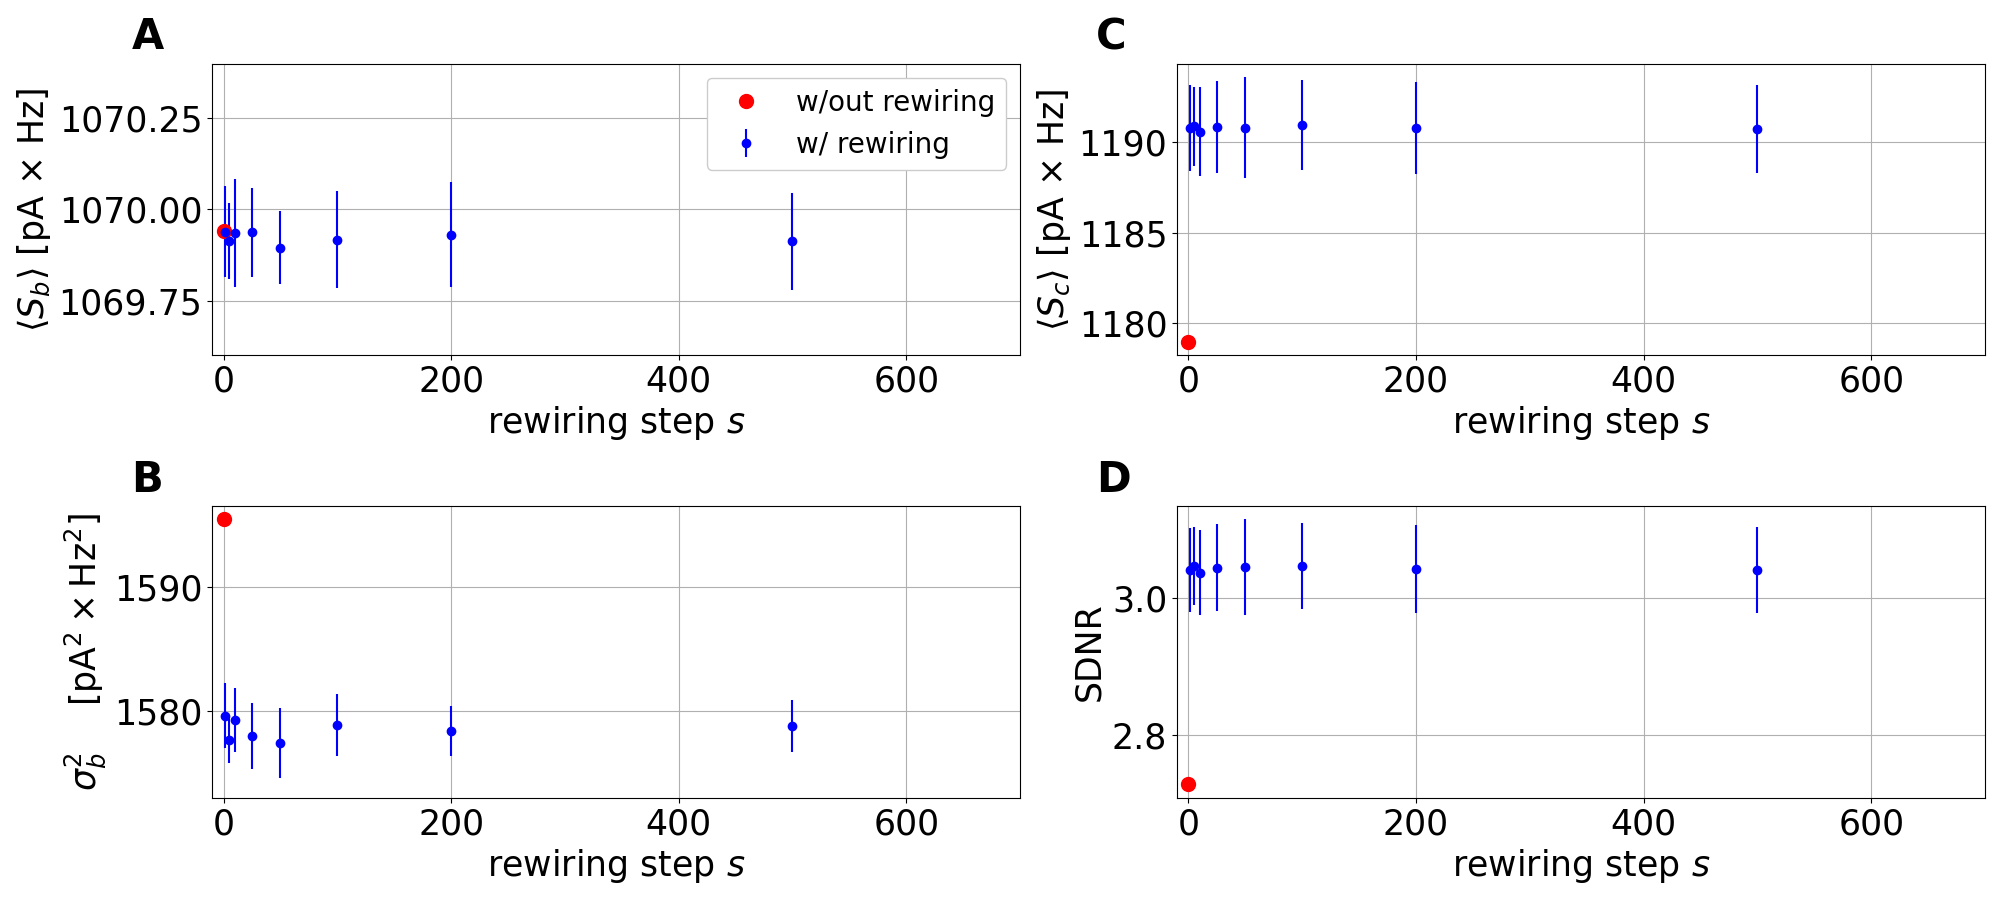
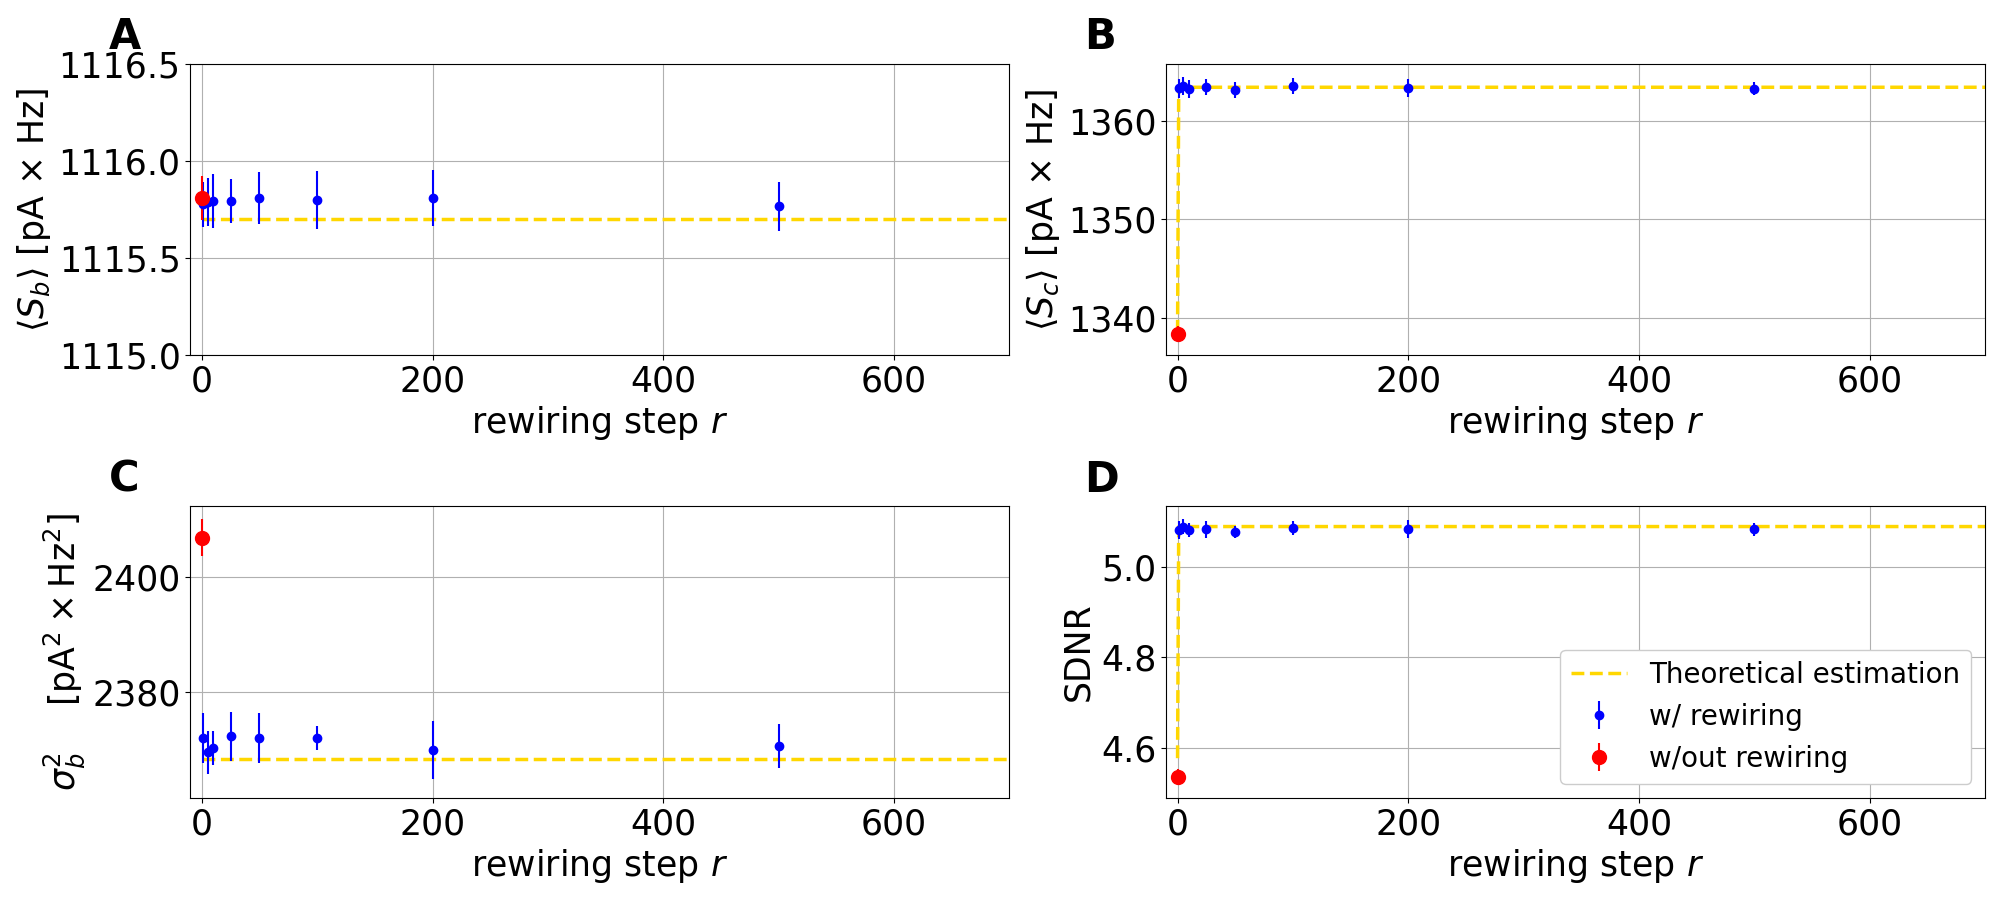
edited rewiring data

diff --git a/plot/plot_variable_rewiring.py b/plot/plot_variable_rewiring.py
@@ -23,7 +23,7 @@ def get_params_dict(path):
         Python dictionary containing simulation parameters
     """
 
-    params = np.loadtxt(path+'/params.dat', dtype=np.str)
+    params = np.loadtxt(path+'/params.dat', dtype=str)
     dict_params = dict([[params[i][0], float(params[i][1])] for i in range(len(params))])
     
     return(dict_params)
@@ -102,8 +102,12 @@ def get_th_set(path, T):
         # w/out rewiring
         S2 = params['rh1']*params['Wc']*params['p1']*params['C'] + params['rl1']*(1.0-params['p1'])*(params['W0']*params['C'] + (params['Wc'] - params['W0'])*k)
     else:
+        r = params['change_conn_step']
+        b = (1.-(1.-params['p1']*params['p2'])**(T+r))/(1.-(1.-params['p1']*params['p2'])**r)
+        av_pt = 1. - (b*r)/(T+r)
+        av_kt_first = av_pt*params['C']*(1.0-params['p1'])
         # w/ rewiring
-        S2 = params['rh1']*params['Wc']*params['p1']*params['C'] + rm1*(1.0-params['p1'])*(params['W0']*params['C'] + (params['Wc'] - params['W0'])*k)
+        S2 = params['rh1']*params['Wc']*params['p1']*params['C'] + rm1*(1.0-params['p1'])*(params['W0']*params['C'] + (params['Wc'] - params['W0'])*k) - params['Wc']*(rm1 - params['rl1'])*av_kt_first
 
     # if C is constant
     if(params['connection_rule']==0):
@@ -161,14 +165,14 @@ def get_th_data(path):
         t = [int(step) for step in t_list]
         t.sort()
 
-        T = [ 5000 for i in range(len(t))]
+        T = [ 10000 for i in range(len(t))]
 
         dum_Sb = []
         dum_varSb = []
         dum_S2 = []
 
         for i in range(len(t)):
-            dum_dict = get_th_set(path+"/0", T[i])
+            dum_dict = get_th_set(path+"/"+str(t[i]), T[i])
             dum_Sb.append(dum_dict['Sb'])
             dum_varSb.append(dum_dict['varSb'])
             dum_S2.append(dum_dict['S2'])
@@ -283,41 +287,43 @@ def plot_data(data, th_data):
 
     #ax1.fill_between(data['t'][1:], data['Sb_av'][1:]-data['Sb_std'][1:], data['Sb_av'][1:]+data['Sb_std'][1:], color="blue", alpha=0.2)
     ax1.text(-0.1, 1.05, "A", weight="bold", fontsize=30, color='k', transform=ax1.transAxes)
-    ax1.errorbar(data['t'][1:], data['Sb_av'][1:], fmt="o", linestyle="", yerr=data['Sb_std'][1:], color="blue", label="w/ rewiring")
-    ax1.plot(data['t'][0], data['Sb_av'][0], "o", markersize=10, color="red", label="w/out rewiring")
-    ax1.legend(fontsize=legend_fs, framealpha=1.0)
+    ax1.plot(th_data['t'], th_data['Sb_th'], "--", linewidth=2.5, color="gold", label='Theoretical estimation')
+    ax1.errorbar(data['t'][1:], data['Sb_av'][1:], yerr=data['Sb_std'][1:], fmt="o", linestyle="", color="blue", label="w/ rewiring")
+    ax1.errorbar(data['t'][0], data['Sb_av'][0], yerr=data['Sb_std'][0], fmt="o", markersize=10, color="red", label="w/out rewiring")
     ax1.set_ylabel(r"$\langle S_b \rangle$ [pA $\times$ Hz]", fontsize=tick_fs)
-    ax1.set_xlabel(r"rewiring step $s$", fontsize=tick_fs)
+    ax1.set_xlabel(r"rewiring step $r$", fontsize=tick_fs)
     ax1.tick_params(labelsize=tick_fs)
-    ax1.set_ylim(1069.4, 1070.5)
+    ax1.set_ylim(1115, 1116.5)
     ax1.set_xlim(-10, 700)
     ax1.ticklabel_format(style='plain', useOffset=False, axis='y') 
     #ax1.set_xticklabels([])
     ax1.grid()
-    ax1.set_ylim(1069.6,1070.4)
+    #ax1.set_ylim(1069.6,1070.4)
     
     #ax3.fill_between(data['t'][1:], data['varSb_av'][1:]-data['varSb_std'][1:], data['varSb_av'][1:]+data['varSb_std'][1:], color="blue", alpha=0.2)
-    ax3.text(-0.1, 1.05, "B", weight="bold", fontsize=30, color='k', transform=ax3.transAxes)
+    ax3.text(-0.1, 1.05, "C", weight="bold", fontsize=30, color='k', transform=ax3.transAxes)
+    ax3.plot(th_data['t'], th_data['varSb_th'], "--", linewidth=2.5, color="gold", label='Theoretical estimation')
     ax3.errorbar(data['t'][1:], data['varSb_av'][1:], fmt="o", linestyle="", yerr=data['varSb_std'][1:], color="blue", label="w/ rewiring")
-    ax3.plot(data['t'][0], data['varSb_av'][0], "o", markersize=10, color="red", label="w/out rewiring")
+    ax3.errorbar(data['t'][0], data['varSb_av'][0], yerr=data['varSb_std'][0], fmt="o", markersize=10, color="red", label="w/out rewiring")
     #ax3.plot(data['t'], th_data['varSb_th'], "--", color="red", label="Theory")
     #ax3.legend(title=r"$\sigma^2_b$", fontsize=legend_fs, title_fontsize=legend_fs, framealpha=1.0)
     ax3.set_ylabel(r"$\sigma^2_b$ $\quad [\mathrm{pA}^2 \times \mathrm{Hz}^2]$", fontsize=tick_fs)
-    ax3.set_xlabel(r"rewiring step $s$", fontsize=tick_fs)
+    ax3.set_xlabel(r"rewiring step $r$", fontsize=tick_fs)
     ax3.set_xlim(-10, 700)
     ax3.tick_params(labelsize=tick_fs)
     ax3.grid()
     #ax3.set_xticklabels([])
     #ax3.legend(fontsize=legend_fs, framealpha=1.0)
 
-    ax5.text(-0.1, 1.05, "C", weight="bold", fontsize=30, color='k', transform=ax5.transAxes)
+    ax5.text(-0.1, 1.05, "B", weight="bold", fontsize=30, color='k', transform=ax5.transAxes)
     #ax5.fill_between(data['t'][1:], data['S2_av'][1:]-data['S2_std'][1:], data['S2_av'][1:]+data['S2_std'][1:], color="blue", alpha=0.2)
+    ax5.plot(th_data['t'], th_data['S2_th'], "--", linewidth=2.5, color="gold", label='Theoretical estimation')
     ax5.errorbar(data['t'][1:], data['S2_av'][1:], fmt="o", linestyle="", yerr=data['S2_std'][1:], color="blue", label="w/ rewiring")
-    ax5.plot(data['t'][0], data['S2_av'][0], "o", markersize=10, color="red", label="w/out rewiring")
+    ax5.errorbar(data['t'][0], data['S2_av'][0], yerr=data['S2_std'][0], fmt="o", markersize=10, color="red", label="w/out rewiring")
     #ax5.plot(data['t'], th_data['S2_th'], "--", color="red", label="Theory")
     #ax5.legend(title=r"$\langle S_c \rangle$", fontsize=legend_fs, title_fontsize=legend_fs, framealpha=1.0)
     ax5.set_ylabel(r"$\langle S_c \rangle$ [pA $\times$ Hz]", fontsize=tick_fs)
-    ax5.set_xlabel(r"rewiring step $s$", fontsize=tick_fs)
+    ax5.set_xlabel(r"rewiring step $r$", fontsize=tick_fs)
     ax5.set_xlim(-10, 700)
     ax5.tick_params(labelsize=tick_fs)
     ax5.grid()
@@ -326,14 +332,16 @@ def plot_data(data, th_data):
 
     ax7.text(-0.1, 1.05, "D", weight="bold", fontsize=30, color='k', transform=ax7.transAxes)
     #ax7.fill_between(data['t'][1:], data['CNR_av'][1:]-data['CNR_std'][1:], data['CNR_av'][1:]+data['CNR_std'][1:], color="blue", alpha=0.2)
+    ax7.plot(th_data['t'], (th_data['S2_th']-th_data['Sb_th'])/np.sqrt(th_data['varSb_th']), "--", linewidth=2.5, color="gold", label='Theoretical estimation')
     ax7.errorbar(data['t'][1:], data['CNR_av'][1:], fmt="o", linestyle="", yerr=data['CNR_std'][1:], color="blue", label="w/ rewiring")
-    ax7.plot(data['t'][0], data['CNR_av'][0], "o", markersize=10, color="red", label="w/out rewiring")
+    ax7.errorbar(data['t'][0], data['CNR_av'][0], yerr=data['CNR_std'][0], fmt="o", markersize=10, color="red", label="w/out rewiring")
     #ax7.plot(data['t'], np.abs(th_data['S2_th']-th_data['Sb_th'])/np.sqrt(th_data['varSb_th']), "--", color="red", label="Theory")
     ax7.set_ylabel(r"SDNR", fontsize=tick_fs)
-    ax7.set_xlabel(r"rewiring step $s$", fontsize=tick_fs)
+    ax7.set_xlabel(r"rewiring step $r$", fontsize=tick_fs)
     ax7.tick_params(labelsize=tick_fs)
     ax7.set_xlim(-10, 700)
     ax7.grid()
+    ax7.legend(fontsize=legend_fs, framealpha=1.0, loc='lower right')
     #ax7.legend(title=r"SDNR", fontsize=legend_fs, title_fontsize=legend_fs, framealpha=1.0)
     #ax7.legend(fontsize=legend_fs, framealpha=1.0)
     #ax7.set_xticklabels([])
